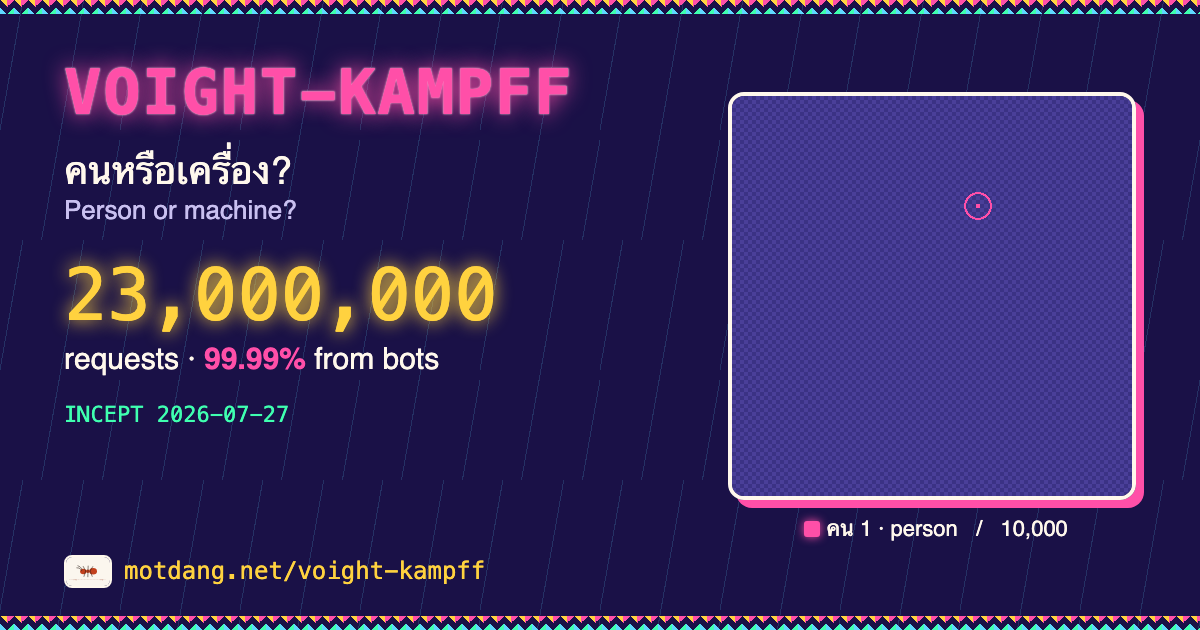
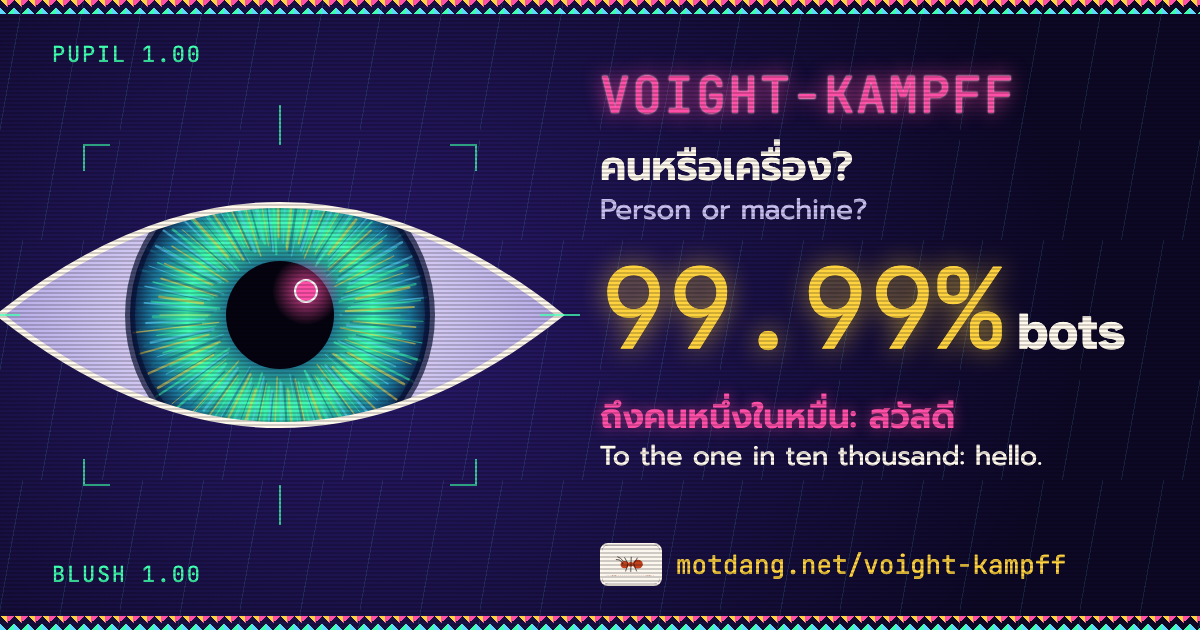
Voight-Kampff share card: the eye

diff --git a/notes/voight-kampff-card.html b/notes/voight-kampff-card.html
@@ -1,0 +1,96 @@
+<!doctype html>
+<html><meta charset="utf-8">
+<style>
+@font-face{font-family:JBM;src:url("file:///Users/annikapeacock/Developer/claude%20code%20projects/mot-dang/docs/fonts/jetbrains-mono-400-latin.woff2")}
+@font-face{font-family:Prompt;font-weight:600;src:url("file:///Users/annikapeacock/Developer/claude%20code%20projects/mot-dang/docs/fonts/prompt-600-thai.woff2");unicode-range:U+0E00-0E7F}
+@font-face{font-family:Prompt;font-weight:600;src:url("file:///Users/annikapeacock/Developer/claude%20code%20projects/mot-dang/docs/fonts/prompt-600-latin.woff2")}
+@font-face{font-family:Prompt;font-weight:400;src:url("file:///Users/annikapeacock/Developer/claude%20code%20projects/mot-dang/docs/fonts/prompt-400-thai.woff2");unicode-range:U+0E00-0E7F}
+@font-face{font-family:Prompt;font-weight:400;src:url("file:///Users/annikapeacock/Developer/claude%20code%20projects/mot-dang/docs/fonts/prompt-400-latin.woff2")}
+@font-face{font-family:Atk;font-weight:700;src:url("file:///Users/annikapeacock/Developer/claude%20code%20projects/mot-dang/docs/fonts/atkinson-hyperlegible-700-latin.woff2")}
+html,body{margin:0;width:1200px;height:630px;overflow:hidden;background:#0d0826}
+.c{position:relative;width:1200px;height:630px;overflow:hidden;
+ background:radial-gradient(ellipse 60% 90% at 30% 50%,#2a1a6e 0%,#1a1147 55%,#0d0826 100%)}
+.rain{position:absolute;inset:0;opacity:.13;
+ background-image:repeating-linear-gradient(100deg,transparent 0 22px,#5fd8ff 22px 23px,transparent 23px 60px);
+ background-size:120px 240px}
+.scan{position:absolute;inset:0;background:repeating-linear-gradient(0deg,rgba(0,0,0,.18) 0 2px,transparent 2px 4px);pointer-events:none}
+.stitch{position:absolute;left:0;right:0;height:14px;
+ background:
+  linear-gradient(135deg,#ff4fa8 25%,transparent 25%) -7px 0/14px 14px,
+  linear-gradient(225deg,#ffd23f 25%,transparent 25%) -7px 0/14px 14px,
+  linear-gradient(315deg,#3fffb0 25%,transparent 25%) 0 0/14px 14px,
+  linear-gradient(45deg,#5fd8ff 25%,transparent 25%) 0 0/14px 14px}
+.eye{position:absolute;left:-40px;top:35px;width:640px;height:560px}
+.hud{position:absolute;font-family:JBM;color:#3fffb0;font-size:22px;letter-spacing:.08em}
+.right{position:absolute;left:600px;top:62px;width:560px}
+.title{font-family:JBM;font-size:50px;color:#ff4fa8;letter-spacing:.04em;
+ text-shadow:0 0 20px #ff4fa8,0 0 2px #fff;margin:0}
+.q{font-family:Prompt;font-weight:600;color:#fff8ec;font-size:40px;margin:14px 0 0;line-height:1.25}
+.q small{display:block;font-family:Prompt;font-weight:400;font-size:28px;color:#c9c0f0}
+.big{font-family:JBM;font-size:112px;color:#ffd23f;line-height:1;margin:26px 0 0;
+ text-shadow:0 0 26px rgba(255,210,63,.7)}
+.big span{font-size:52px;color:#fff8ec;text-shadow:none;margin-left:14px;font-family:Atk;font-weight:700}
+.hi{font-family:Prompt;font-weight:600;color:#ff4fa8;font-size:34px;margin:30px 0 0;line-height:1.3;
+ text-shadow:0 0 14px rgba(255,79,168,.55)}
+.hi small{display:block;font-weight:400;font-size:27px;color:#fff8ec;text-shadow:none}
+.url{position:absolute;left:600px;bottom:44px;font-family:JBM;font-size:26px;color:#ffd23f;display:flex;align-items:center;gap:14px}
+.url img{width:58px;height:39px;border-radius:8px;border:2px solid #fff8ec}
+</style>
+<div class="c">
+ <div class="rain"></div>
+
+ <svg class="eye" viewBox="0 0 640 560" xmlns="http://www.w3.org/2000/svg">
+  <defs>
+   <clipPath id="lid"><path d="M40 280 Q320 60 600 280 Q320 500 40 280Z"/></clipPath>
+   <radialGradient id="scl" cx="50%" cy="50%" r="60%">
+    <stop offset="0" stop-color="#f4ecff"/><stop offset=".7" stop-color="#b9aee8"/><stop offset="1" stop-color="#5b4bb0"/>
+   </radialGradient>
+   <radialGradient id="iris" cx="50%" cy="50%" r="50%">
+    <stop offset=".28" stop-color="#0a0620"/><stop offset=".34" stop-color="#1d6f8f"/>
+    <stop offset=".62" stop-color="#3fffb0"/><stop offset=".86" stop-color="#1c7a9e"/><stop offset="1" stop-color="#0e1f4a"/>
+   </radialGradient>
+   <radialGradient id="glow" cx="50%" cy="50%" r="50%">
+    <stop offset="0" stop-color="#ff4fa8" stop-opacity=".9"/><stop offset="1" stop-color="#ff4fa8" stop-opacity="0"/>
+   </radialGradient>
+  </defs>
+  <g clip-path="url(#lid)">
+   <rect width="640" height="560" fill="url(#scl)"/>
+   <circle cx="320" cy="280" r="150" fill="url(#iris)"/>
+   <g id="rays" stroke-linecap="round"></g>
+   <circle cx="320" cy="280" r="54" fill="#05030f"/>
+   <circle cx="320" cy="280" r="150" fill="none" stroke="#0a1238" stroke-width="10" opacity=".7"/>
+  </g>
+  <path d="M40 280 Q320 60 600 280 Q320 500 40 280Z" fill="none" stroke="#fff8ec" stroke-width="6"/>
+  <!-- the one in ten thousand: catchlight -->
+  <circle cx="346" cy="256" r="34" fill="url(#glow)"/>
+  <circle cx="346" cy="256" r="11" fill="#ff4fa8" stroke="#fff" stroke-width="2"/>
+  <!-- crosshair -->
+  <g stroke="#3fffb0" stroke-width="2" opacity=".75" fill="none">
+   <line x1="320" y1="70" x2="320" y2="110"/><line x1="320" y1="450" x2="320" y2="490"/>
+   <line x1="20" y1="280" x2="60" y2="280"/><line x1="580" y1="280" x2="620" y2="280"/>
+   <path d="M150 110 h-26 v26 M490 110 h26 v26 M150 450 h-26 v-26 M490 450 h26 v-26"/>
+  </g>
+ </svg>
+ <div class="hud" style="left:52px;top:40px">PUPIL 1.00</div>
+ <div class="hud" style="left:52px;top:560px">BLUSH 1.00</div>
+
+ <div class="right">
+  <p class="title">VOIGHT-KAMPFF</p>
+  <p class="q">คนหรือเครื่อง?<small>Person or machine?</small></p>
+  <p class="big">99.99%<span>bots</span></p>
+  <p class="hi">ถึงคนหนึ่งในหมื่น: สวัสดี<small>To the one in ten thousand: hello.</small></p>
+ </div>
+ <div class="url"><img src="file:///Users/annikapeacock/Developer/claude%20code%20projects/mot-dang/docs/ant.svg">motdang.net/voight-kampff</div>
+
+ <div class="scan"></div>
+ <div class="stitch" style="top:0"></div>
+ <div class="stitch" style="bottom:0"></div>
+</div>
+<script>
+var g=document.getElementById('rays'),s='';
+for(var i=0;i<180;i++){var a=i*2*Math.PI/180+(i%3)*.01,r1=60+(i*37%20),r2=120+(i*53%30);
+ var col=['#5fd8ff','#3fffb0','#ffd23f','#1d6f8f'][i%4];
+ s+='<line x1="'+(320+r1*Math.cos(a)).toFixed(1)+'" y1="'+(280+r1*Math.sin(a)).toFixed(1)+'" x2="'+(320+r2*Math.cos(a)).toFixed(1)+'" y2="'+(280+r2*Math.sin(a)).toFixed(1)+'" stroke="'+col+'" stroke-width="'+(1+(i%5)*.4)+'" opacity=".55"/>';}
+g.innerHTML=s;
+</script>
+</html>

diff --git a/assets/voight-kampff/index.html b/assets/voight-kampff/index.html
@@ -12,10 +12,10 @@
 <meta property="og:title" content="Voight-Kampff · motdang.net">
 <meta property="og:description" content="Incept date 27 July 2026. 23,000,000 requests. 99.99% from bots.">
 <meta property="og:url" content="https://motdang.net/voight-kampff/">
-<meta property="og:image" content="https://motdang.net/voight-kampff/card.png">
+<meta property="og:image" content="https://motdang.net/voight-kampff/card.png?v=2">
 <meta property="og:image:width" content="1200">
 <meta property="og:image:height" content="630">
-<meta property="og:image:alt" content="VOIGHT-KAMPFF. 23,000,000 requests, 99.99% from bots. A grid of 10,000 squares with one pink square for a person.">
+<meta property="og:image:alt" content="VOIGHT-KAMPFF. An eye under test, one pink point of light in the pupil. Person or machine? 99.99% bots. To the one in ten thousand: hello.">
 <meta property="og:type" content="website">
 <meta name="twitter:card" content="summary_large_image">
 <style>
